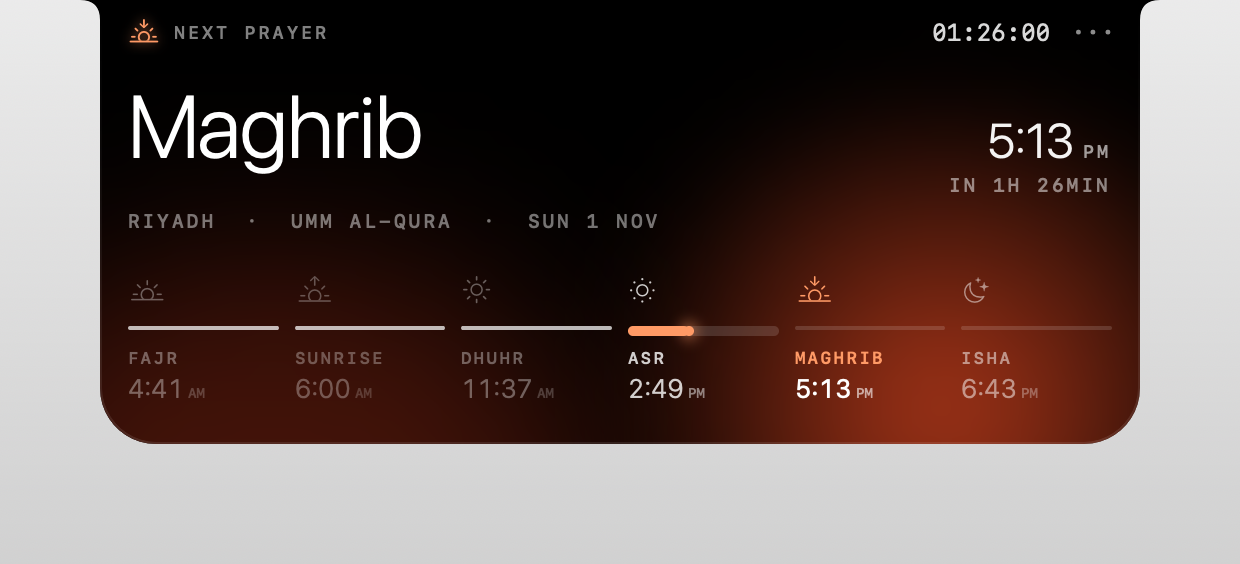
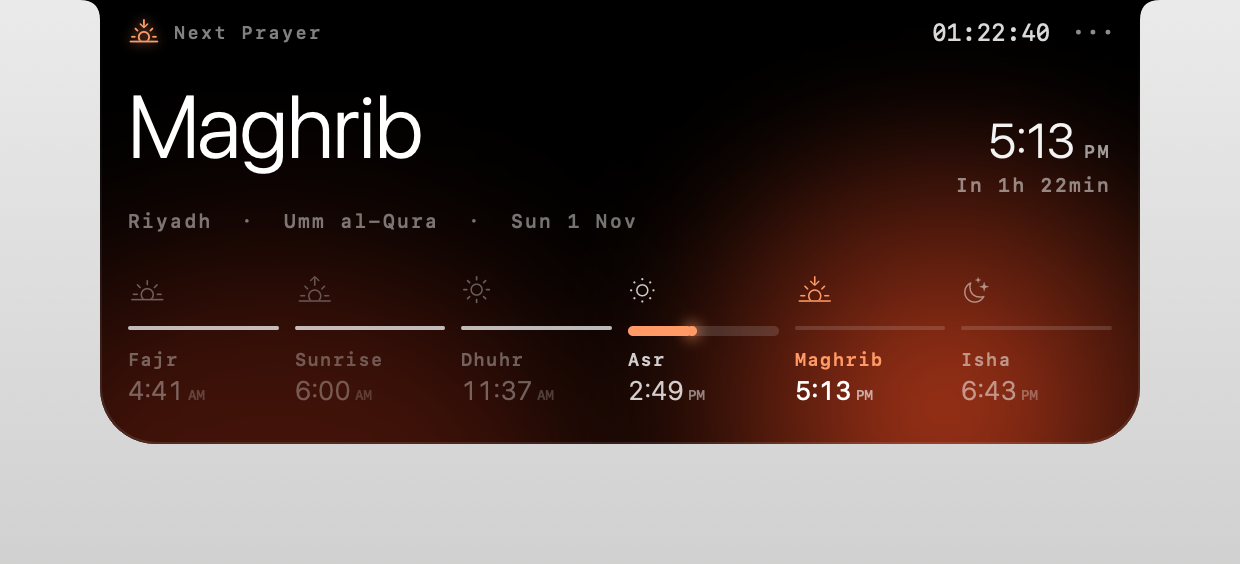
Title Case everywhere instead of all-caps captions

diff --git a/Sources/PrayerNotch/Core/Strings.swift b/Sources/PrayerNotch/Core/Strings.swift
@@ -69,30 +69,30 @@ struct Strings {
         }
     }
 
-    var nextPrayer: String { ar ? "الصلاة القادمة" : "Next prayer" }
+    var nextPrayer: String { ar ? "الصلاة القادمة" : "Next Prayer" }
     var now: String { ar ? "الآن" : "Now" }
-    var inPrefix: String { ar ? "بعد" : "in" }
+    var inPrefix: String { ar ? "بعد" : "In" }
     var minutesShort: String { ar ? "د" : "min" }
     var hoursShort: String { ar ? "س" : "h" }
     var locating: String { ar ? "جارٍ تحديد الموقع…" : "Locating…" }
-    var noLocation: String { ar ? "حدّد موقعك" : "Set your location" }
+    var noLocation: String { ar ? "حدّد موقعك" : "Set Your Location" }
     var noLocationShort: String { ar ? "الموقع" : "Location" }
-    var showMenuBarIcon: String { ar ? "إظهار أيقونة في شريط القوائم" : "Show menu bar icon" }
+    var showMenuBarIcon: String { ar ? "إظهار أيقونة في شريط القوائم" : "Show Menu Bar Icon" }
     var locationDenied: String { ar ? "الوصول للموقع مرفوض. اختر مدينة يدويًا." : "Location access denied. Choose a city manually." }
     var locationFailed: String { ar ? "تعذّر تحديد الموقع. اختر مدينة يدويًا." : "Could not locate you. Choose a city manually." }
     var automatic: String { ar ? "تلقائي" : "Automatic" }
     var autoByCountry: String { ar ? "تلقائي (حسب الدولة)" : "Automatic (by country)" }
     var settings: String { ar ? "الإعدادات" : "Settings" }
     var location: String { ar ? "الموقع" : "Location" }
-    var useMyLocation: String { ar ? "استخدم موقعي" : "Use my location" }
-    var chooseCity: String { ar ? "اختيار مدينة" : "Choose a city" }
+    var useMyLocation: String { ar ? "استخدم موقعي" : "Use My Location" }
+    var chooseCity: String { ar ? "اختيار مدينة" : "Choose a City" }
     var searchCity: String { ar ? "ابحث عن مدينة…" : "Search for a city…" }
-    var currentLocation: String { ar ? "الموقع الحالي" : "Current location" }
+    var currentLocation: String { ar ? "الموقع الحالي" : "Current Location" }
     var calculation: String { ar ? "الحساب" : "Calculation" }
     var method: String { ar ? "طريقة الحساب" : "Method" }
     var asrMadhab: String { ar ? "مذهب العصر" : "Asr (madhab)" }
     var display: String { ar ? "العرض" : "Display" }
-    var timeFormat: String { ar ? "تنسيق الوقت" : "Time format" }
+    var timeFormat: String { ar ? "تنسيق الوقت" : "Time Format" }
     var systemDefault: String { ar ? "حسب النظام" : "System" }
     var twelveHour: String { ar ? "12 ساعة" : "12-hour" }
     var twentyFourHour: String { ar ? "24 ساعة" : "24-hour" }
@@ -100,7 +100,7 @@ struct Strings {
     var arabic: String { "العربية" }
     var english: String { "English" }
     var general: String { ar ? "عام" : "General" }
-    var launchAtLogin: String { ar ? "التشغيل عند بدء النظام" : "Launch at login" }
+    var launchAtLogin: String { ar ? "التشغيل عند بدء النظام" : "Launch at Login" }
     var quit: String { ar ? "إنهاء" : "Quit" }
     var openSettings: String { ar ? "الإعدادات…" : "Settings…" }
     var showPanel: String { ar ? "تثبيت لوحة النوتش" : "Pin notch panel" }
@@ -109,20 +109,20 @@ struct Strings {
     var noResults: String { ar ? "لا توجد نتائج" : "No results" }
     var today: String { ar ? "اليوم" : "Today" }
     var updates: String { ar ? "التحديثات" : "Updates" }
-    var checkForUpdates: String { ar ? "فحص التحديثات" : "Check for updates" }
+    var checkForUpdates: String { ar ? "فحص التحديثات" : "Check for Updates" }
     var daily: String { ar ? "يوميًا" : "Daily" }
     var weekly: String { ar ? "أسبوعيًا" : "Weekly" }
     var never: String { ar ? "أبدًا" : "Never" }
-    var checkNow: String { ar ? "افحص الآن" : "Check now" }
+    var checkNow: String { ar ? "افحص الآن" : "Check Now" }
     var installUpdate: String { ar ? "تثبيت" : "Install" }
-    var autoInstallUpdates: String { ar ? "تثبيت التحديثات تلقائيًا" : "Install updates automatically" }
+    var autoInstallUpdates: String { ar ? "تثبيت التحديثات تلقائيًا" : "Install Updates Automatically" }
     var checking: String { ar ? "جارٍ الفحص…" : "Checking…" }
-    var upToDate: String { ar ? "أحدث إصدار" : "Up to date" }
-    var updateAvailable: String { ar ? "إصدار جديد متاح" : "Update available" }
+    var upToDate: String { ar ? "أحدث إصدار" : "Up to Date" }
+    var updateAvailable: String { ar ? "إصدار جديد متاح" : "Update Available" }
     var downloading: String { ar ? "جارٍ التنزيل" : "Downloading" }
     var installing: String { ar ? "جارٍ التثبيت" : "Installing" }
     var updateFailed: String { ar ? "فشل التحديث" : "Update failed" }
-    var lastChecked: String { ar ? "آخر فحص" : "Last checked" }
+    var lastChecked: String { ar ? "آخر فحص" : "Last Checked" }
     var version: String { ar ? "الإصدار" : "Version" }
     var notBundled: String { ar ? "التحديث التلقائي يعمل من نسخة .app فقط" : "Self-update only works from a built .app" }
     var tomorrow: String { ar ? "غدًا" : "Tomorrow" }

diff --git a/Sources/PrayerNotch/Notch/Palette.swift b/Sources/PrayerNotch/Notch/Palette.swift
@@ -58,7 +58,7 @@ extension Font {
     }
 }
 
-/// Small caption: uppercase mono with wide tracking in English (like "7 STEPS · 14 MINS"),
+/// Small caption: mono with light tracking in English (Title Case, never all caps),
 /// Almarai without tracking in Arabic so the letters stay connected.
 struct CaptionStyle: ViewModifier {
     @EnvironmentObject var app: AppState
@@ -73,8 +73,7 @@ struct CaptionStyle: ViewModifier {
         } else {
             content
                 .font(.mono(size))
-                .tracking(1.5)
-                .textCase(.uppercase)
+                .tracking(1.2)
                 .foregroundStyle(.white.opacity(opacity))
         }
     }
@@ -87,7 +86,7 @@ struct PillLabelStyle: ViewModifier {
         if app.isArabic {
             content.font(app.display(11.5, weight: .bold))
         } else {
-            content.font(.mono(10, weight: .semibold)).tracking(1.4).textCase(.uppercase)
+            content.font(.mono(10, weight: .semibold)).tracking(1.2)
         }
     }
 }

diff --git a/Sources/PrayerNotch/Notch/TimelineView.swift b/Sources/PrayerNotch/Notch/TimelineView.swift
@@ -70,9 +70,8 @@ private struct SegmentView: View {
                             .font(app.display(10.5, weight: isNext ? .bold : .regular))
                     } else {
                         Text(app.strings.prayer(segment.start.prayer))
-                            .font(.mono(8.5, weight: isNext ? .semibold : .medium))
-                            .tracking(1.2)
-                            .textCase(.uppercase)
+                            .font(.mono(9, weight: isNext ? .semibold : .medium))
+                            .tracking(0.8)
                     }
                 }
                 .foregroundStyle(isNext ? palette.accent : .white)
